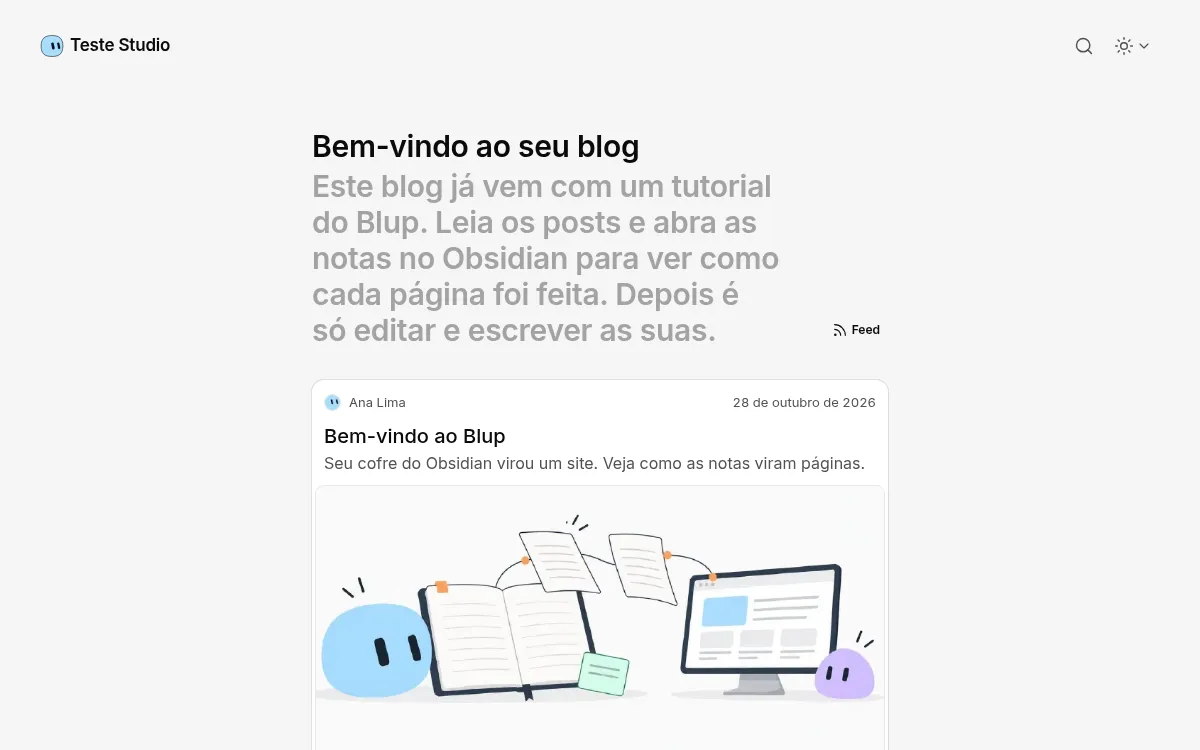
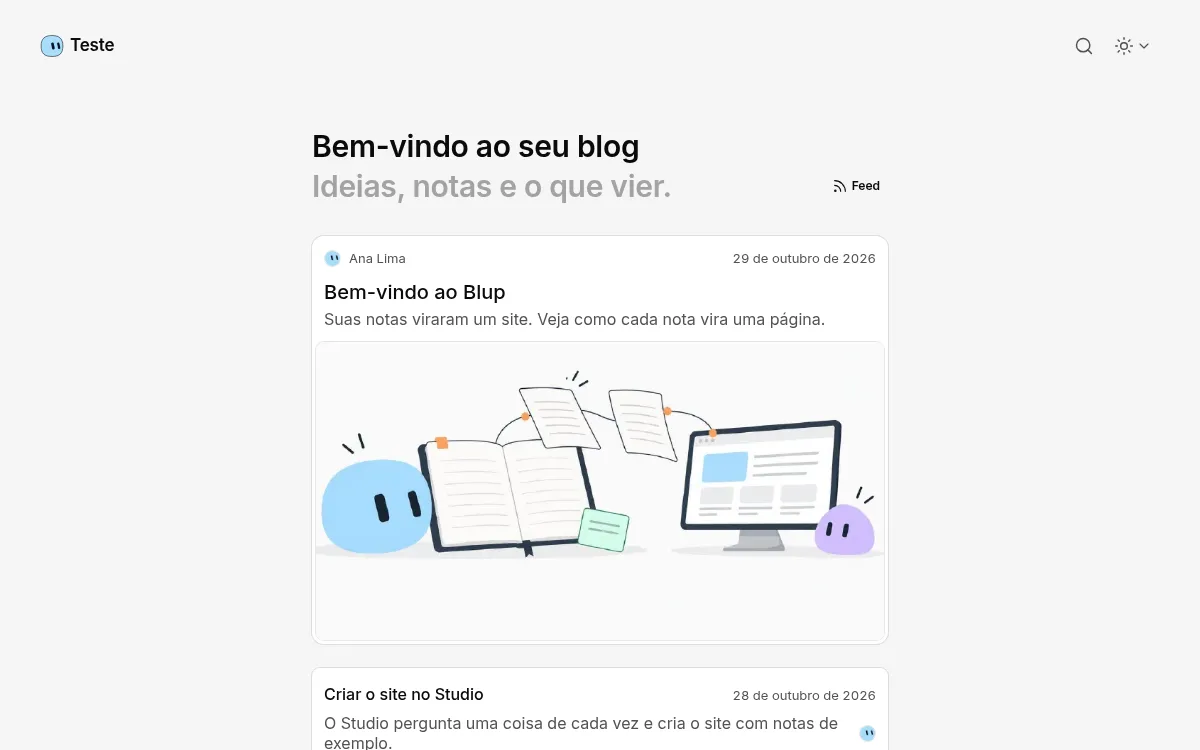
Nori: frase curta na página inicial

diff --git a/theme/assets/css/nori.css b/theme/assets/css/nori.css
@@ -41,7 +41,7 @@ neutral palette and layout. Bundled into one file by css.Build. */
   .nori-head { margin-block-end: 2rem; }
   .nori-title { font-size: 1.875rem; font-weight: 600; line-height: 2.25rem; letter-spacing: -.01em; color: var(--main-900); text-wrap: balance; }
   .nori-lede-row { display: flex; align-items: flex-end; justify-content: space-between; gap: 1rem; margin-block-start: .25rem; }
-  .nori-lede { font-size: 1.875rem; font-weight: 600; line-height: 2.25rem; letter-spacing: -.01em; color: var(--main-400); text-wrap: balance; }
+  .nori-lede { font-size: 1.875rem; font-weight: 600; line-height: 2.25rem; letter-spacing: -.01em; color: var(--main-400); }
   .nori-meta { font-size: .8125rem; line-height: 1.25rem; color: var(--main-600); font-variant-numeric: tabular-nums; }
 
   .nori-feed { position: relative; display: flex; align-items: center; height: 2.25rem; flex-shrink: 0; }

diff --git a/internal/app/starter/pt/nori/_index.md b/internal/app/starter/pt/nori/_index.md
@@ -14,7 +14,7 @@ social:
 button_text:
 button_link:
 ---
-Este blog já vem com um tutorial do Blup. Leia os posts e abra as notas no Blup Studio para ver como cada página foi feita. Depois é só editar e escrever as suas.
+Ideias, notas e o que vier.
 
 %%
 Este bloco é um comentário (o texto entre os dois pares de sinais de porcentagem): aparece só no editor do Studio, nunca no site.

diff --git a/internal/app/starter/en/nori/_index.md b/internal/app/starter/en/nori/_index.md
@@ -14,7 +14,7 @@ social:
 button_text:
 button_link:
 ---
-This blog comes with a Blup tutorial built in. Read the posts and open the notes in Blup Studio to see how each page was made. Then edit them and start writing your own.
+Ideas, notes and what's next.
 
 %%
 This block is a comment (the text between the two pairs of percent signs): you only see it while editing, never on the site.
